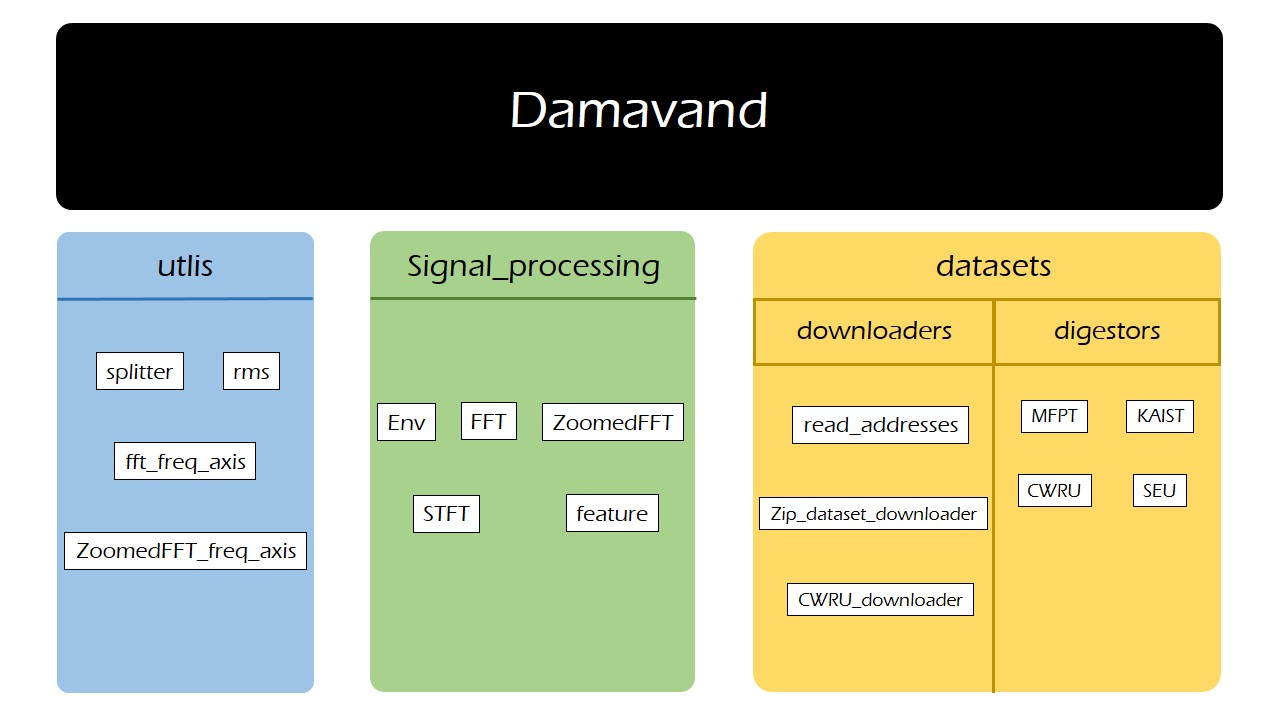
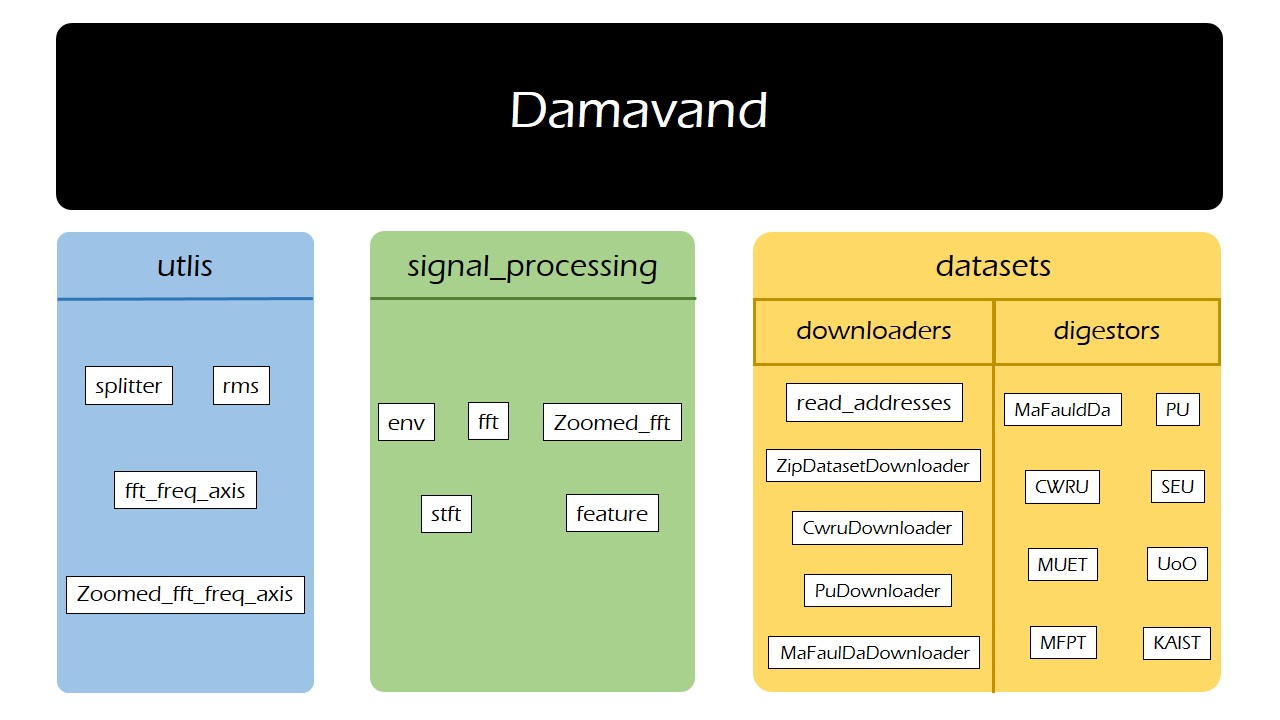
general modifications.

diff --git a/damavand/signal_processing.py b/damavand/signal_processing.py
@@ -5,7 +5,7 @@ from utils import *
 
 def env(signals):
   """
-  Env(signals) - Extracting the envelope of a set of signals
+  env(signals) - Extracting the envelope of a set of signals
   
   Arguments:
   signals -- A pd.DataFrame() incuding signals in its rows.
@@ -23,7 +23,7 @@ def env(signals):
 
 def fft(signals, freq_filter = None, window = None):
   """
-  FFT(signals, freq_filter, window) - Applying the Fast-Fourier Transform algorithim to derive frequency domain representation of a set of signals
+  fft(signals, freq_filter, window) - Applying the Fast-Fourier Transform algorithim to derive frequency domain representation of a set of signals
   
   Arguemnts:
   Signals -- A pd.DataFrame() incuding signals in its rows.
@@ -97,7 +97,7 @@ def stft(signals, window_len, hop_len, freq_filter = None, window = None):
   Return Value:
   A np.array(), whose first dimension equals the number of rows included in the input pd.DataFrame; it includes derived Time-Frequency representations of the inputted signals. freq_filter and window are not mandatory 
   arguments and a function call without them is valid, however, we recommend using them to avoid aliasing (and of course near-zero/DC filtering through band-pass filters) and leakage error. Pay attention that unlike
-  the case of damavand.signal_processing.FFT() or damavand.signal_processing.ZoomedFFT(), for this function you have to define freq_filter and window objects with a lenght that suits the segmented signals (equal to
+  the case of damavand.signal_processing.fft() or damavand.signal_processing.zoomed_fft(), for this function you have to define freq_filter and window objects with a lenght that suits the segmented signals (equal to
   the window_len argument), instead of the original signals, presented in the inputted pd.DataFrame().
 
   Descriptions:

diff --git a/documentation/signal_processing.md b/documentation/signal_processing.md
@@ -1,6 +1,6 @@
 # Damavand Documention - Signal Processing Module API Reference
 
-## ```signal_processing.Env(signals)```
+## ```env(signals)```
 
 
 ### Extracting the envelope of a set of signals
@@ -17,7 +17,7 @@
   to calculate the absolute magnitude, from both the imaginery and real parts.
 
 
-## ```FFT(signals, freq_filter = None, window = None)```
+## ```fft(signals, freq_filter = None, window = None)```
 
 ### Applying the Fast-Fourier Transform algorithim to derive frequency domain representation of a set of signals
   
@@ -33,7 +33,7 @@
   This function computes the Discrete Fourier Transform (DFT) of a set of signals, through the application of Fast-Fourier Transform ([```scipy.fft.fft```](https://docs.scipy.org/doc/scipy-1.11.0/reference/generated/scipy.fft.fft.html#scipy.fft.fft)) algorithm. As it returns only the coeeficients correpsonding to real frequency components (not the imaginery ones), lenght of the returned ```pandas.DataFrame``` is half of the inputted ```pandas.DataFrame```. ```freq_filter``` and ```window``` are not mandatory arguments and a function call without them is valid, however, we recommend using them to avoid aliasing (and of course near-zero/DC filtering through band-pass filters) and leakage error. We encourage you to use frequency axis for the sake of visualization; this can be done using either of the followings: [```scipy.fft.fftfreq```](https://docs.scipy.org/doc/scipy-1.11.0/reference/generated/scipy.fft.fftfreq.html#scipy.fft.fftfreq), [```numpy.linspace```](https://numpy.org/doc/stable/reference/generated/numpy.linspace.html) and **damavand.utils.fft_freq_axis**.
 
 
-  ## ```ZoomedFFT(signals, f_min, f_max, desired_len, sampling_freq, freq_filter = None, window = None)```
+  ## ```zoomed_fft(signals, f_min, f_max, desired_len, sampling_freq, freq_filter = None, window = None)```
 
   ### Applying the ZoomFFT algorithm to derive a fine-grained frequency representation in a desired frequency range
 
@@ -50,10 +50,10 @@
   A ```pandas.DataFrame``` whose rows are the frequency representations of the inputted DataFrame, in the desired frequency range and with the chosen lenght.
 
   #### Descriptions:
-  This function enables one to derive a frequency represenationin a desired frequency range and with the desired length, through the application of [```sicpy.signal.ZoomFFT```](https://docs.scipy.org/doc/scipy-1.11.0/reference/generated/scipy.signal.ZoomFFT.html#scipy.signal.ZoomFFT). ```freq_filter``` and ```window``` are not mandatory arguments and a function call without them is valid, however, we recommend using them to avoid aliasing (and of course near-zero/DC filtering through band-pass filters) and leakage error. We encourage you to use frequency axis for the sake of visualization; this can be done using either of the followings: [```numpy.linspace```](https://numpy.org/doc/stable/reference/generated/numpy.linspace.html) or ```damavand.utils.zoomedFFT_freq_axis```.
+  This function enables one to derive a frequency represenationin a desired frequency range and with the desired length, through the application of [```sicpy.signal.ZoomFFT```](https://docs.scipy.org/doc/scipy-1.11.0/reference/generated/scipy.signal.ZoomFFT.html#scipy.signal.ZoomFFT). ```freq_filter``` and ```window``` are not mandatory arguments and a function call without them is valid, however, we recommend using them to avoid aliasing (and of course near-zero/DC filtering through band-pass filters) and leakage error. We encourage you to use frequency axis for the sake of visualization; this can be done using either of the followings: [```numpy.linspace```](https://numpy.org/doc/stable/reference/generated/numpy.linspace.html) or ```damavand.utils.zoomed_fft_freq_axis```.
 
 
-  ## ```STFT(signals, window_len, hop_len, freq_filter = None, window = None)```
+  ## ```stft(signals, window_len, hop_len, freq_filter = None, window = None)```
 
   ### Application of Short-Time Fourier Transform to derive Time-Frequency representation of the inputted signals
 

diff --git a/Readme.md b/Readme.md
@@ -1,22 +1,23 @@
 # Damavand
 
-![Damavand Logo](logo.jpg)
+![Damavand Logo](cropped_header.jpg)
 
 
-Damavand is a library to simplify rotary machines vibration-based analysis, through standardizing downloading, loading and transforming processes. The main motivation behind developing it is to democratize rotary machine intelligent predictive maintenance, through the development of an end-to-end unified data processing framework, covering from downloading the raw data to data preprocessing.
+Damavand is a package to simplify rotary machines vibration-based analysis, through standardizing downloading, loading and transforming processes. The main motivation behind developing it is to democratize rotary machine intelligent predictive maintenance, through the development of an end-to-end unified data processing framework, covering from downloading the raw data to data preprocessing.
 
 Damavand currently consists of three modules:
 
-- utils: a submodule to include genral and basic functions
-- signal_processing: implementation of the most frequently-used signal processing operations and transforms used for vibration analysis
-- datasets: this submodule consists of two parts:
-    * downloaders: helping classes to download benchmark datasets
-    * digestors: helping classes to process raw dataset files into structured pairs of signal banks and their corresponding metadata
+- **utils**: a submodule to include genral and basic functions
+- **signal_processing**: implementation of the most frequently-used signal processing operations and transforms used for vibration analysis
+- **datasets**: this submodule consists of two parts:
+    * **downloaders**: helping classes to download benchmark datasets
+    * **digestors**: helping classes to process raw dataset files into structured pairs of signal banks and their corresponding metadata
 
-The image below, 
+The image below, illustrates an overview of the Damavand.
 
 ![Damavand Overview](damavand_overview.jpg)
 
-Documentation on each module:
-- [signal_processing](documentation/signal_processing.md)
-- [datasets](documentation/datasets.md)
+Detailed API reference of each module is accessible through the links, below:
+- [**utils**](documentation/utils.md)
+- [**signal_processing**](documentation/signal_processing.md)
+- [**datasets**](documentation/datasets.md)

diff --git a/documentation/utils.md b/documentation/utils.md
@@ -1,0 +1,20 @@
+# Damavand Documention - Utility Module API Reference
+
+## ```splitter(array, win_len, hop_len, return_df = True)```
+
+
+### Splitting raw data signals into series of segmented signals
+  
+  #### Arguments:
+  - **array** is the original signal, in the form of a ```np.array```.
+  - **win_len** is the desired length of the segmented signals.
+  - **hop_len** is the forward move of the window.
+  - **return_df** determines the output type; the default value is ```True```, meaning that returned type is a ```pandas.DataFrame```. If set to ```False```, the function returns a ```np.array```.
+  
+  #### Return Value:
+  - A ```pandas.DataFrame``` including segmented signals, extracted from the original raw signal.
+
+  #### Descriptions:
+  This function helps one to transform the raw signals into a series of segmented signals.
+
+  
